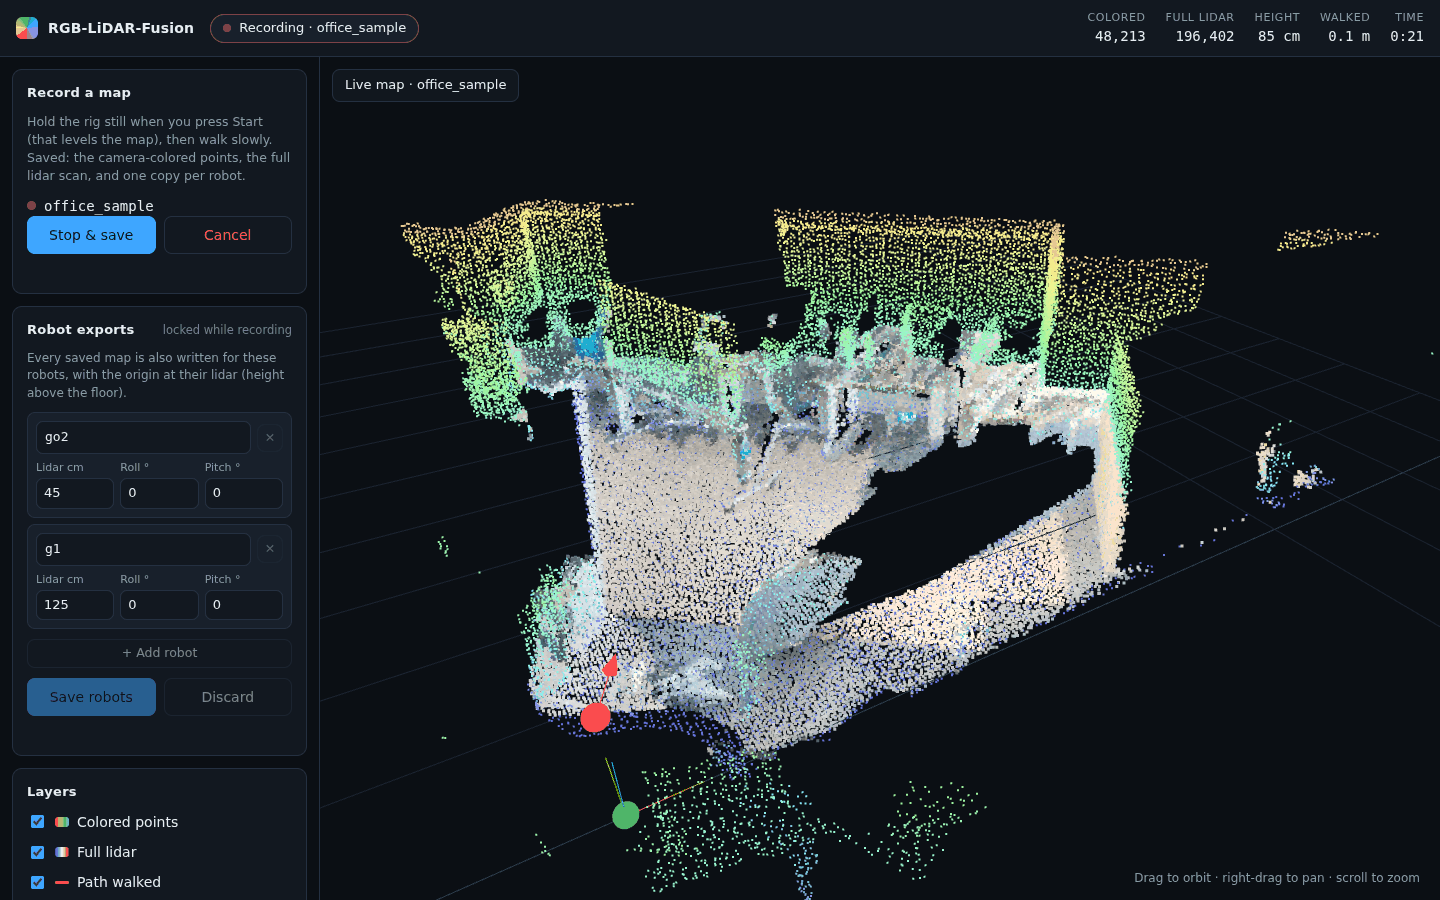
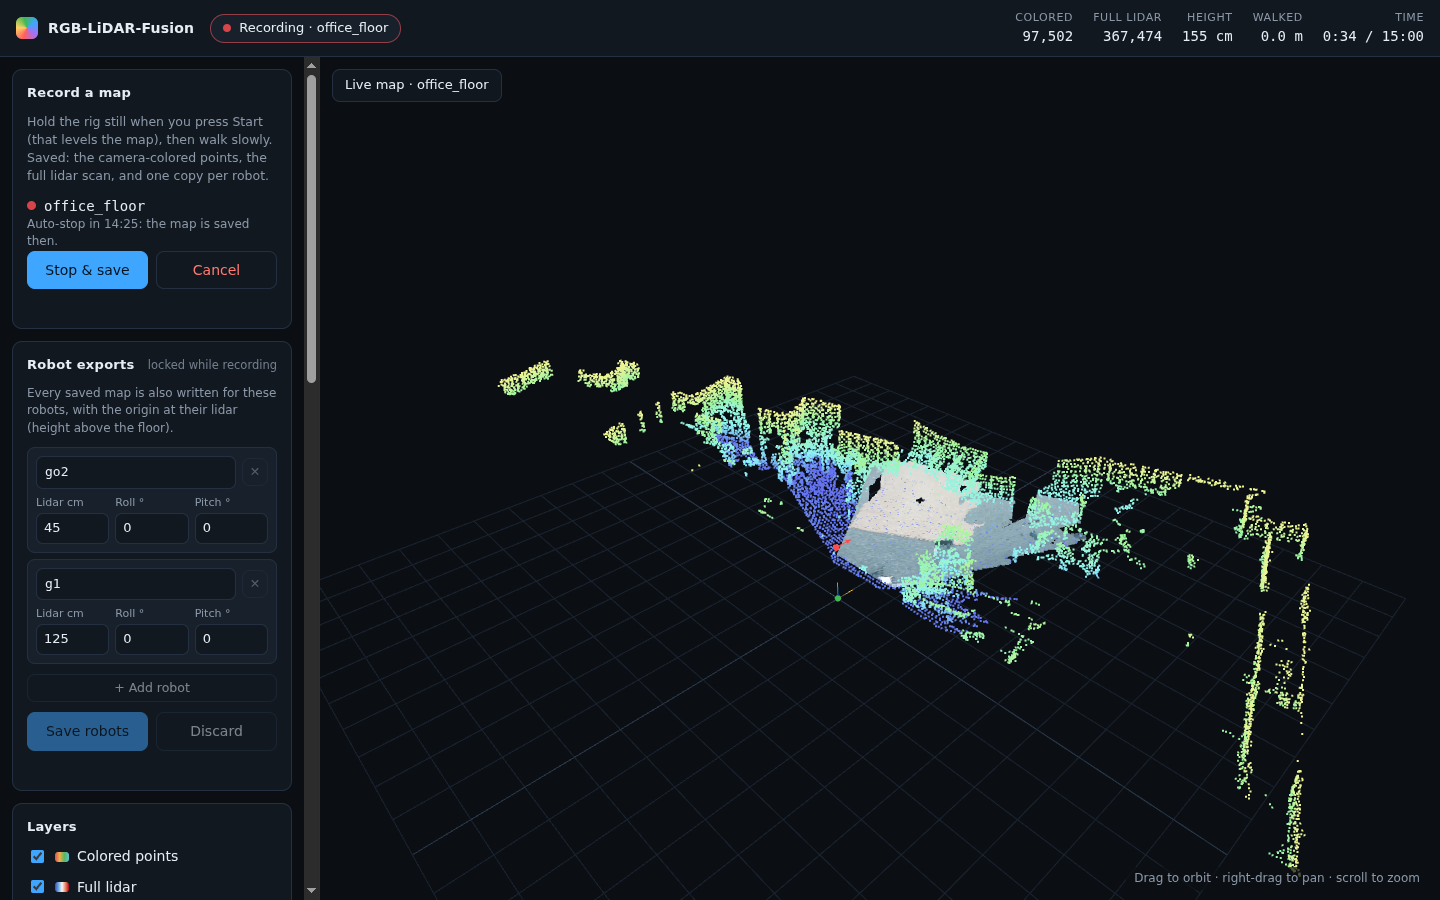
New web UI screenshots; keep the saved-maps panel from being squashed
The screenshots show the current UI (auto-stop countdown, the non-default
height warning, robot downloads). The saved-maps card had flex: 1 in the
scrolling sidebar, so once the sidebar grew taller than the window it shrank
to its 160 px minimum and an expanded map's details spilled out below it; it
now fills spare height but never shrinks below its content.

diff --git a/rgb_lidar_fusion/web/style.css b/rgb_lidar_fusion/web/style.css
@@ -82,7 +82,7 @@ body {
   padding: 14px;
   display: flex; flex-direction: column; gap: 10px;
 }
-.card.grow { flex: 1; min-height: 160px; }
+.card.grow { flex: 1 0 auto; min-height: 160px; }   /* fill spare height, never squash the list */
 .card h2 { margin: 0; font-size: 13px; font-weight: 600; letter-spacing: .3px; }
 .card-head { display: flex; align-items: center; justify-content: space-between; }
 .hint { margin: 0; color: var(--muted); font-size: 12.5px; }

diff --git a/README.md b/README.md
@@ -167,12 +167,12 @@ To stop, press **Ctrl+C** in the launch terminal; a map that is still recording 
 | **Saved maps** | Collapsed list with a search box; click a map for its details, *View in 3D*, downloads (the map itself and each robot export) and *Delete* (type the map's name to confirm; not possible while that map is being recorded). `?map=<name>` links straight to one; add `&crop=x0,x1,y0,y1` (m) to share a cropped view. |
 
 <p align="center">
-  <img src="docs/images/webui_recording.png" alt="Web UI while recording: live colored map, lidar height 85 cm, robot exports go2 and g1" width="860">
+  <img src="docs/images/webui_recording.png" alt="Web UI while recording: live colored map, lidar height 155 cm, auto-stop countdown, robot exports go2 and g1" width="860">
 </p>
 
 <table>
   <tr>
-    <td width="68%"><img src="docs/images/webui_start_dialog.png" alt="Start recording dialog: map name, lidar height, color distance 10 m, auto-stop after 300 s, robot exports go2 and g1"></td>
+    <td width="68%"><img src="docs/images/webui_start_dialog.png" alt="Start recording dialog: map name, lidar height 155 cm flagged as not the default, color distance 10 m, auto-stop after 900 s, robot exports go2 and g1"></td>
     <td width="32%"><img src="docs/images/webui_saved_maps_list.png" alt="Saved maps list: details, Re-export, Delete, downloads for the map, go2 and g1"></td>
   </tr>
   <tr>
